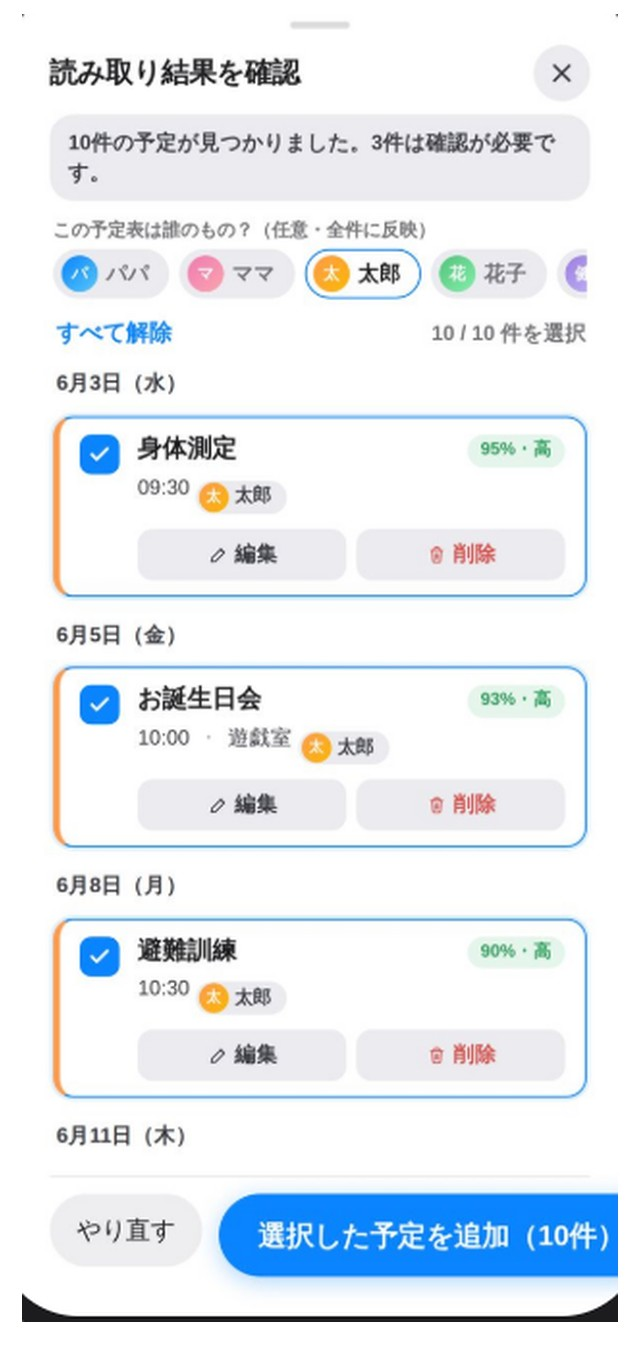
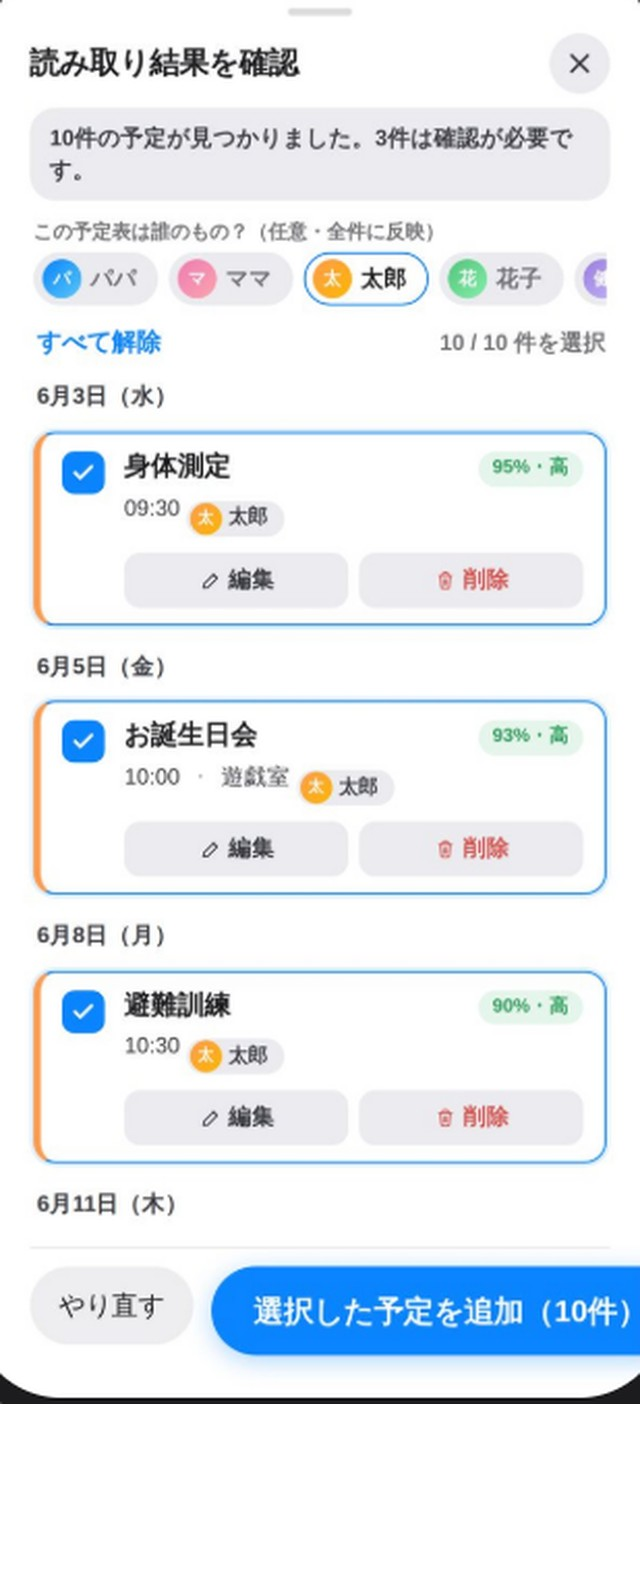
Match OCR mockup bottom safe-area to other phones (no clipped buttons)
The OCR screen had only ~3% bottom safe-area, so the action buttons sat at
the very bottom and got cut by the phone frame. Rebuild ocr.jpg full-width
with ~12% bottom safe-area (matching hoku-agent.jpg) so the whole screen,
including the reset and blue add buttons, displays comfortably.

Claude-Session: https://claude.ai/code/session_014h6FqYjzP1qVqtZzPWcFxb

Changed region(s): [[0.0, 0.0, 1.0, 0.9832], [0.5312, 0.3687, 0.5625, 0.3994]]

diff --git a/familink.html b/familink.html
@@ -311,7 +311,7 @@
 <section class="feat" id="ocr">
   <div class="wrap feat__in">
     <div class="feat__media rv">
-      <div class="phone"><img src="images/familink/lp/ocr.jpg?v=4" alt="予定表OCRの読み取り結果確認画面：写真から10件の予定を自動抽出し、選択して一括登録" width="640" height="1390" loading="lazy"></div>
+      <div class="phone"><img src="images/familink/lp/ocr.jpg?v=5" alt="予定表OCRの読み取り結果確認画面：写真から10件の予定を自動抽出し、選択して一括登録" width="640" height="1390" loading="lazy"></div>
     </div>
     <div class="feat__body rv">
       <span class="eyebrow">予定表まるごと OCR</span>